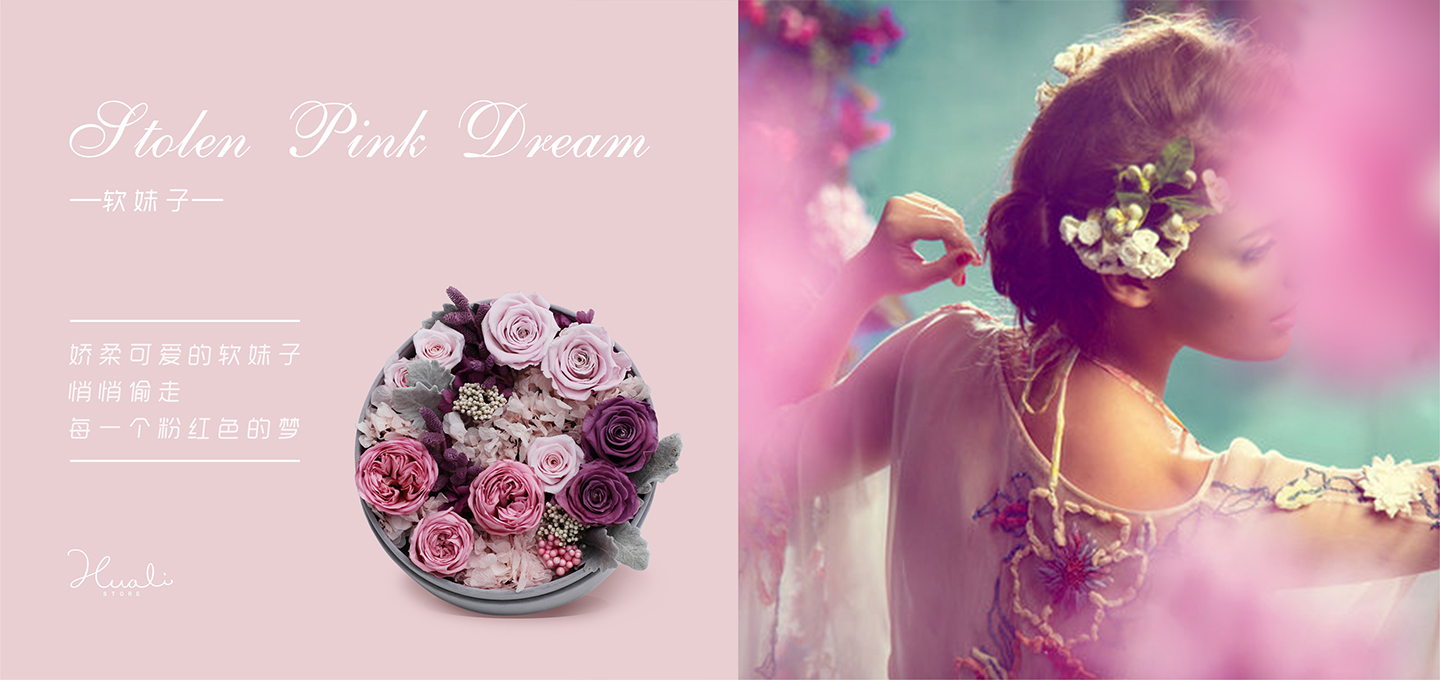
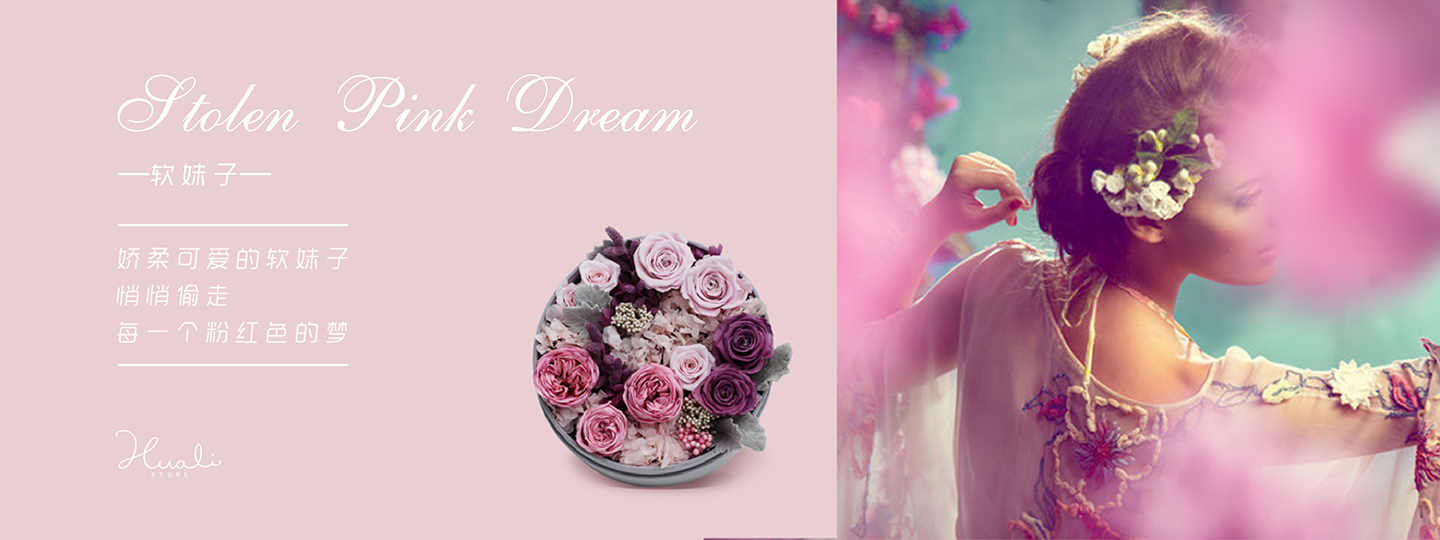
Updated the home page slide

diff --git a/app/assets/stylesheets/modules/others.sass b/app/assets/stylesheets/modules/others.sass
@@ -103,8 +103,8 @@
 #slide
   position: relative
   width: 100%
-  margin-top: 10px
-  margin-bottom: 10px
+  margin-top: 20px
+  margin-bottom: 20px
   overflow: hidden
   text-align: center
   .btn-left,.btn-right
@@ -129,7 +129,7 @@
     position: absolute
     display: inline-block
     margin-left: -31px
-    bottom: 8%
+    bottom: 5%
     li
       float: left
       margin-right: 8px
